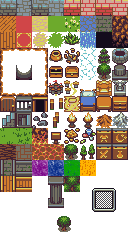
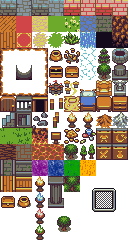
More items!!!!

Changed region(s): [[0.0, 0.7292, 0.375, 1.0]]

diff --git a/src/scenes/GameScene.js b/src/scenes/GameScene.js
@@ -16,13 +16,13 @@ function create2DArray(n, m, defaultVal = 0) {
 
 function generateMajaBlocks(dynamicLayer) {
     let objects = [
-        1, 3, 5, 7, 52, 53, 55, 56
+        1, 3, 5, 7, 52, 53, 55, 56, 91, 99, 107, 115, 97, 98,
     ]
     dynamicLayer.setCollisionBetween(1, 15 * 8)
     dynamicLayer.setCollision([4, 2, 9, 10, 11, 12, 13, 14, 15, 16, 17, 18, 19, 20, 21, 22,
                                75, 76, 67, 52, 53, 60], false)
 
-    for (let i = 0; i < 1800; i++)
+    for (let i = 0; i < 1500; i++)
     {
         let x, y
         do {
@@ -39,7 +39,7 @@ function generatePaklajiBlocks(layer) {
         83, 84, 85, 86, 9, 10, 17, 18
     ]
 
-    for (let i = 0; i < 1000; i++)
+    for (let i = 0; i < 800; i++)
     {
         let x, y
         do {
